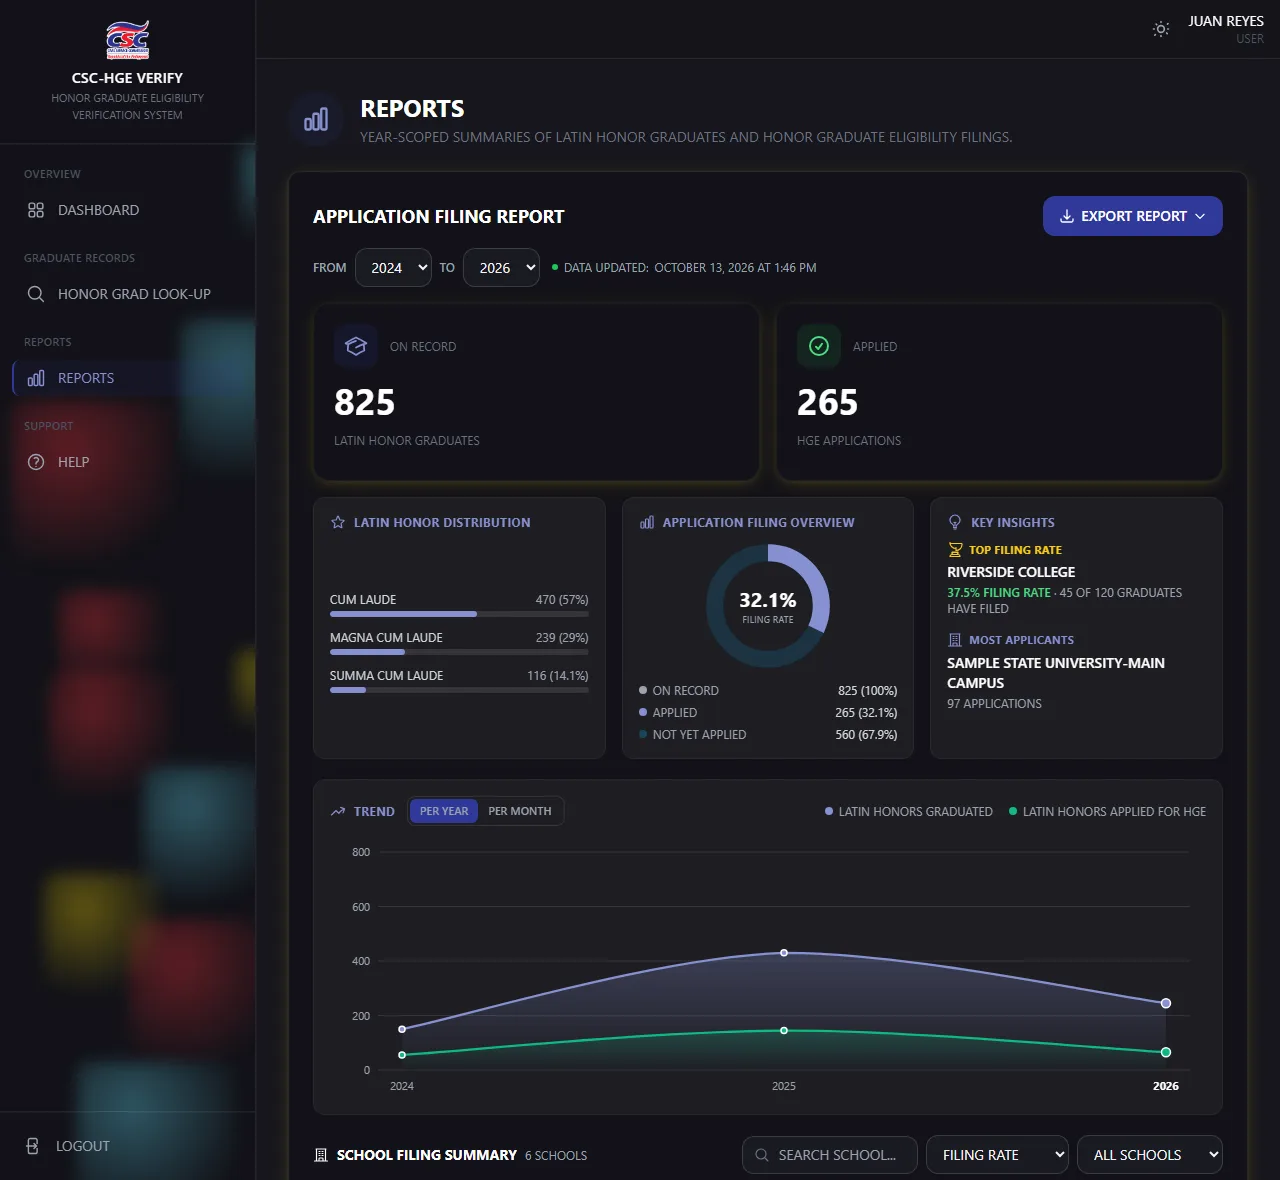
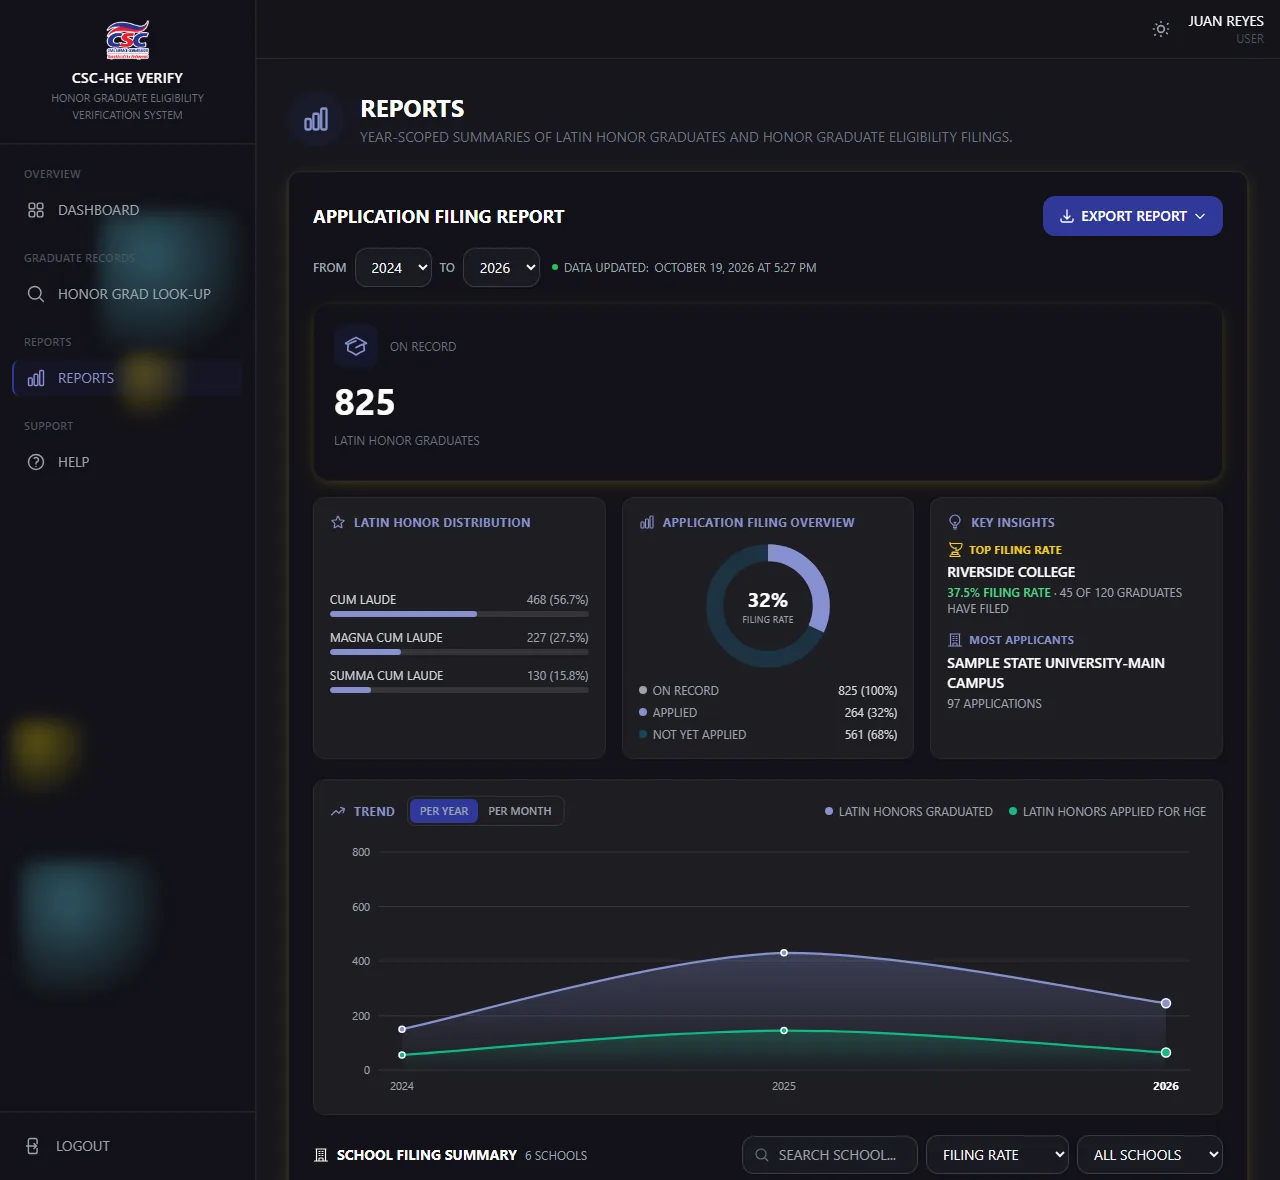
feat: APPLIED card moves from Reports to the Dashboard; Help page brought up to date

diff --git a/assets/js/reports.js b/assets/js/reports.js
@@ -536,7 +536,9 @@ document.addEventListener('DOMContentLoaded', function () {
 
     function renderFilingReport(data) {
         animateCountUp(filingTotalOnRecord, data.report.total_on_record, 1000, null, parseDisplayedNumber(filingTotalOnRecord));
-        animateCountUp(filingTotalApplied, data.report.total_applied, 1000, null, parseDisplayedNumber(filingTotalApplied));
+        if (filingTotalApplied) {
+            animateCountUp(filingTotalApplied, data.report.total_applied, 1000, null, parseDisplayedNumber(filingTotalApplied));
+        }
         animateRate(filingRate, data.report.filing_rate, 1000);
 
         if (filingOnRecordTrend) {

diff --git a/admin/help.php b/admin/help.php
@@ -51,7 +51,7 @@ $sections = [
         'intro' => 'The dashboard is a quick summary of what is in the system. It is the first page you see after signing in.',
         'steps' => [
             'Click [[DASHBOARD]] in the menu.',
-            'Read the cards at the top: [[TOTAL GRADUATES]], [[SCHOOLS WITH RECORDS]], [[TOTAL PDF LISTS]] and [[CURRENT YEAR RECORDS]].',
+            'Read the cards at the top: [[TOTAL GRADUATES]], [[SCHOOLS WITH RECORDS]], [[APPLIED]] (HGE applications filed so far) and [[CURRENT YEAR RECORDS]].',
             'Below them, [[LATIN HONORS BY TYPE]] shows how many records are Cum Laude, Magna Cum Laude and Summa Cum Laude, and [[UPLOAD ACTIVITY]] shows uploads over time.',
             '[[LATEST UPLOAD]] lists the most recent school lists, and [[RECENT ACTIVITY]] shows the latest actions in the system.',
         ],
@@ -115,8 +115,8 @@ $sections = [
         'steps' => [
             'Click [[REPORTS]] in the menu.',
             'Choose the reporting period with the two year boxes (from and to).',
-            'Read the summary: [[ON RECORD]] (Latin Honor graduates saved), [[APPLIED]] (applications filed), [[FILING RATE]] and [[NOT YET APPLIED]].',
-            'On the trend chart, use [[PER YEAR]] or [[PER MONTH]] to change how it is grouped. Both lines use the same scale, so you can compare them directly.',
+            'Read the summary: [[ON RECORD]] (Latin Honor graduates saved), [[FILING RATE]] and [[NOT YET APPLIED]]. The total number of applications filed is shown on the Dashboard.',
+            'On the trend chart, use [[PER YEAR]] or [[PER MONTH]] to change how it is grouped. Both lines use the same scale, so you can compare them directly. Graduates are placed by the month they graduated and applications by the month they were actually filed.',
             'In the table by school, search for a school, change the sort order, or show only schools that [[HAS FILED]] or have [[NO FILINGS YET]].',
             'Click [[EXPORT REPORT]], then [[EXPORT XLSX]] to download it for Excel or [[PRINT REPORT]] to print it.',
         ],
@@ -209,7 +209,7 @@ $sections = [
             '[[EXTRACT RECORDS]] and [[CONTINUE EXTRACTION]] read a list that has not been saved yet. Reading it again from the start replaces the extracted data that is waiting for review, including any edits you made to it.',
             'For a list that is already saved (for example when an earlier OCR reading was unclear), click [[RE-EXTRACT WITH AI]] or [[RE-EXTRACT VIA TEXT/OCR]] ([[RE-READ TEMPLATE]] for an Excel upload). The result opens as a new review, and nothing changes until you click [[SAVE RECORDS]].',
             'Records that already have a filed application are kept exactly as they are: they show as locked and marked [[APPLIED]], cannot be changed or removed in that review, and a new row with the same name is left out. The other saved records are replaced by the new list; any record the new reading does not include goes to the Recycle Bin and can be restored.',
-            '[[CHANGE CAMPUS]] moves the upload and its saved records to another campus of the same school, for a list that was filed under the wrong campus. The file, the records and any filed applications stay exactly as they are; only the campus changes. If the school has no other campus yet, add it in [[SCHOOL MANAGEMENT]] first (same school name, different campus).',
+            '[[CHANGE CAMPUS]] moves the upload and its saved records to another campus of the same school, for a list that was filed under the wrong campus. The records and any filed applications stay exactly as they are, and the stored file is renamed to carry the new campus. The upload keeps its number unless the new campus already uses it. If the school has no other campus yet, add it in [[SCHOOL MANAGEMENT]] first (same school name, different campus).',
             '[[REMOVE FILE]] deletes an upload that has no saved records. It goes to the Recycle Bin.',
         ],
     ],
@@ -300,7 +300,7 @@ $sections = [
             ['admin' => false, 'text' => 'You were signed out: this happens after 4 hours without activity. Sign in again.'],
             ['admin' => false, 'text' => 'You cannot find a graduate: clear the filters, make sure [[ALL YEARS]] and [[ALL SCHOOLS]] are selected, and try just part of the name.'],
             ['admin' => false, 'text' => 'You do not see a page or button described here: some of them are for administrators only.'],
-            ['admin' => true, 'text' => '"THE AI TOOK TOO LONG TO ANSWER": the pages already read were not lost. Open the upload from [[SCHOOL RECORDS]] and click [[CONTINUE EXTRACTION]] (or [[EXTRACT RECORDS]] if nothing was read yet) and it continues from where it stopped.'],
+            ['admin' => true, 'text' => '"THE AI TOOK TOO LONG TO ANSWER": the pages already read were not lost, and each batch is already tried up to 3 times before this appears. Open the upload from [[SCHOOL RECORDS]] and click [[CONTINUE EXTRACTION]] (or [[EXTRACT RECORDS]] if nothing was read yet) and it continues from where it stopped.'],
             ['admin' => true, 'text' => '"TODAY\'S FREE AI EXTRACTION QUOTA HAS BEEN USED UP": try again tomorrow, or open the upload and click [[EXTRACT VIA TEXT/OCR]].'],
             ['admin' => true, 'text' => 'Rows are missing from a list read by OCR: add the missing course abbreviation in [[OCR COURSE KEYWORDS]], read the file again, or add the rows with [[ADD RECORD]] or [[UPLOAD EXCEL]].'],
             ['admin' => true, 'text' => 'A record has a wrong name or date: fix it on the review screen before saving, or afterwards with the pencil icon in Look-Up or [[EDIT RECORDS]].'],

diff --git a/admin/reports.php b/admin/reports.php
@@ -33,7 +33,6 @@ $trendMonthly = get_filing_trend_monthly($pdo, $fromYear, $toYear);
 
 $previousPeriodReport = get_application_filing_report($pdo, $fromYear - $periodSpan, $fromYear - 1);
 $onRecordChange = compute_percent_change($filingReport['total_on_record'], $previousPeriodReport['total_on_record']);
-$appliedChange = compute_percent_change($filingReport['total_applied'], $previousPeriodReport['total_applied']);
 
 // Rendered twice (ON RECORD card, APPLIED card) — a page-local helper rather
 // than duplicating the same arrow/color/sign logic inline. Empty string when
@@ -141,7 +140,7 @@ include __DIR__ . '/../includes/sidebar.php';
                     </p>
                 </div>
 
-                <div class="grid grid-cols-1 sm:grid-cols-2 gap-4 mt-4 mb-4">
+                <div class="grid grid-cols-1 gap-4 mt-4 mb-4">
                     <div class="dashboard-stat-card items-start text-left motion-safe:animate-fade-in-up" style="animation-delay: 0ms">
                         <div class="flex items-center gap-3 min-w-0">
                             <span class="flex h-11 w-11 shrink-0 items-center justify-center rounded-xl bg-csc-navy-600/10 text-csc-navy-600 dark:bg-csc-navy-600/15 dark:text-csc-navy-300">
@@ -152,17 +151,6 @@ include __DIR__ . '/../includes/sidebar.php';
                         <p id="filing-total-on-record" class="dashboard-stat-number" data-count-to="<?= (int) $filingReport['total_on_record'] ?>">0</p>
                         <p class="text-xs text-gray-500 dark:text-gray-500">LATIN HONOR GRADUATES</p>
                         <div id="filing-on-record-trend"><?= render_trend_html($onRecordChange, $periodSpan) ?></div>
-                    </div>
-                    <div class="dashboard-stat-card items-start text-left motion-safe:animate-fade-in-up" style="animation-delay: 100ms">
-                        <div class="flex items-center gap-3 min-w-0">
-                            <span class="flex h-11 w-11 shrink-0 items-center justify-center rounded-xl bg-green-500/10 text-green-600 dark:text-green-400">
-                                <svg xmlns="http://www.w3.org/2000/svg" class="h-6 w-6" fill="none" viewBox="0 0 24 24" stroke="currentColor" stroke-width="2"><path stroke-linecap="round" stroke-linejoin="round" d="M9 12.75L11.25 15 15 9.75M21 12a9 9 0 11-18 0 9 9 0 0118 0z" /></svg>
-                            </span>
-                            <p class="text-xs text-gray-600 dark:text-gray-500">APPLIED</p>
-                        </div>
-                        <p id="filing-total-applied" class="dashboard-stat-number" data-count-to="<?= (int) $filingReport['total_applied'] ?>">0</p>
-                        <p class="text-xs text-gray-500 dark:text-gray-500">HGE APPLICATIONS</p>
-                        <div id="filing-applied-trend"><?= render_trend_html($appliedChange, $periodSpan) ?></div>
                     </div>
                 </div>
 

diff --git a/admin/dashboard.php b/admin/dashboard.php
@@ -66,12 +66,15 @@ include __DIR__ . '/../includes/sidebar.php';
             </div>
             <div class="dashboard-stat-card motion-safe:animate-fade-in-up" style="animation-delay: 400ms">
                 <div class="flex items-center gap-3 self-start">
-                    <span class="flex h-11 w-11 shrink-0 items-center justify-center rounded-xl bg-csc-navy-600/10 text-csc-navy-600 dark:bg-csc-navy-600/15 dark:text-csc-navy-300">
-                        <svg xmlns="http://www.w3.org/2000/svg" class="h-6 w-6" fill="none" viewBox="0 0 24 24" stroke="currentColor"><path stroke-linecap="round" stroke-linejoin="round" stroke-width="1.75" d="M19.5 14.25v-2.625a3.375 3.375 0 00-3.375-3.375h-1.5A1.125 1.125 0 0113.5 7.125v-1.5a3.375 3.375 0 00-3.375-3.375H8.25m0 12.75h7.5m-7.5 3H12M10.5 2.25H5.625c-.621 0-1.125.504-1.125 1.125v17.25c0 .621.504 1.125 1.125 1.125h12.75c.621 0 1.125-.504 1.125-1.125V11.25a9 9 0 00-9-9z" /></svg>
+                    <span class="flex h-11 w-11 shrink-0 items-center justify-center rounded-xl bg-green-500/10 text-green-600 dark:text-green-400">
+                        <svg xmlns="http://www.w3.org/2000/svg" class="h-6 w-6" fill="none" viewBox="0 0 24 24" stroke="currentColor" stroke-width="2"><path stroke-linecap="round" stroke-linejoin="round" d="M9 12.75L11.25 15 15 9.75M21 12a9 9 0 11-18 0 9 9 0 0118 0z" /></svg>
                     </span>
-                    <p class="text-xs text-gray-600 dark:text-gray-500">TOTAL PDF LISTS</p>
+                    <p class="text-xs text-gray-600 dark:text-gray-500">APPLIED</p>
                 </div>
-                <p class="dashboard-stat-number" data-count-to="<?= (int) $stats['total_uploads'] ?>">0</p>
+                <div>
+                    <p class="dashboard-stat-number" data-count-to="<?= (int) $stats['total_applied'] ?>">0</p>
+                    <p class="text-xs text-gray-500 dark:text-gray-500 mt-0.5">HGE APPLICATIONS</p>
+                </div>
             </div>
             <div class="dashboard-stat-card motion-safe:animate-fade-in-up" style="animation-delay: 600ms">
                 <div class="flex items-center gap-3 self-start">

diff --git a/includes/functions.php b/includes/functions.php
@@ -206,6 +206,7 @@ function get_dashboard_stats(PDO $pdo): array
     $totalSchools = (int) $pdo->query('SELECT COUNT(DISTINCT school_id) FROM latin_honor_uploads')->fetchColumn();
     $totalActiveSchools = (int) $pdo->query("SELECT COUNT(*) FROM schools WHERE status = 'active'")->fetchColumn();
     $totalUploads = (int) $pdo->query('SELECT COUNT(*) FROM latin_honor_uploads')->fetchColumn();
+    $totalApplied = (int) $pdo->query('SELECT COUNT(*) FROM graduate_applications')->fetchColumn();
     $currentYear = $pdo->query('SELECT MAX(graduation_year) FROM latin_honor_graduates')->fetchColumn();
 
     $currentYearRecords = $currentYear !== null ? get_graduate_count_by_year($pdo, (int) $currentYear) : 0;
@@ -215,6 +216,7 @@ function get_dashboard_stats(PDO $pdo): array
         'total_schools' => $totalSchools,
         'total_active_schools' => $totalActiveSchools,
         'total_uploads' => $totalUploads,
+        'total_applied' => $totalApplied,
         'current_year' => $currentYear !== null ? (int) $currentYear : null,
         'current_year_records' => $currentYearRecords,
     ];

diff --git a/tests/includes/FlashAndStatsTest.php b/tests/includes/FlashAndStatsTest.php
@@ -30,6 +30,7 @@ class FlashAndStatsTest extends TestCase
         $this->assertSame(0, $stats['total_schools']);
         $this->assertSame(0, $stats['total_active_schools']);
         $this->assertSame(0, $stats['total_uploads']);
+        $this->assertSame(0, $stats['total_applied']);
         $this->assertNull($stats['current_year']);
         $this->assertSame(0, $stats['current_year_records']);
     }
@@ -54,6 +55,7 @@ class FlashAndStatsTest extends TestCase
         $this->assertSame(1, $stats['total_schools']);
         $this->assertSame(2, $stats['total_active_schools']);
         $this->assertSame(1, $stats['total_uploads']);
+        $this->assertSame(0, $stats['total_applied']);
         $this->assertSame(2025, $stats['current_year']);
         $this->assertSame(1, $stats['current_year_records']);
     }
